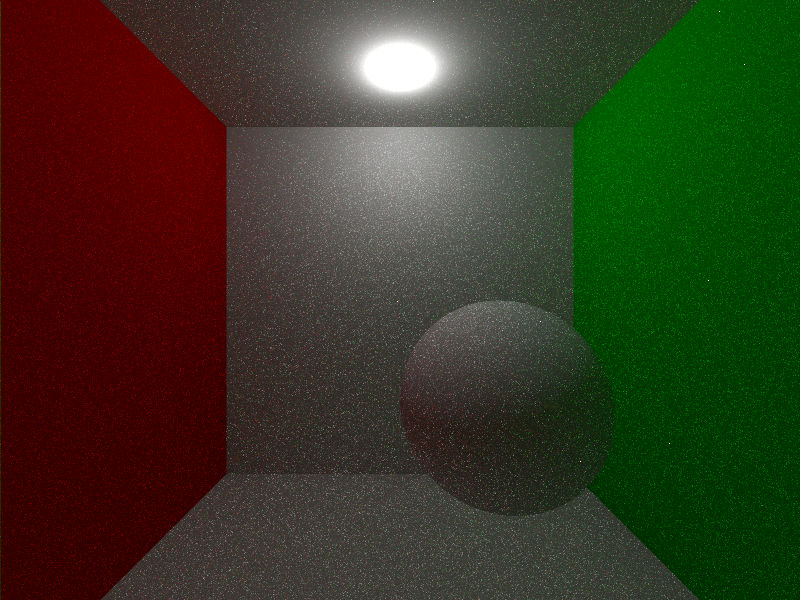
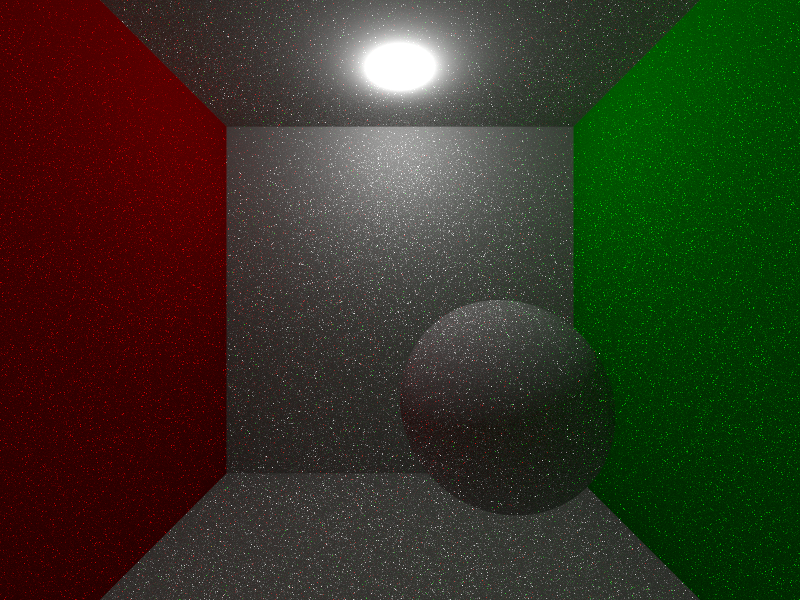
Naive threading accomplished.

Changed region(s): [[0.0, 0.0, 1.0, 1.0]]

diff --git a/src/raytracing.cpp b/src/raytracing.cpp
@@ -13,20 +13,29 @@
 #include "PerspectiveCamera.hpp"
 #include "Image.hpp"
 #include "Sample.hpp"
+#include <thread>
+#include <atomic>
 
-static const int SamplesPerPixel = 4;
+static const int NumXSamples = 8;
+static const int NumYSamples = 8;
+static const int SamplesPerPixel = NumXSamples * NumYSamples;
 static const int ImageWidth = 800;
 static const int ImageHeight = 600;
-static const int maxDepth = 5;
+static const int maxDepth = 3;
 
 static int save_png_to_file(const char *path);
 void readpng_version_info();
 void generate_samples(std::vector<Sample>& samples, const RNG& rng);
-
+std::atomic_uint counter;
 vec3 brdf(const vec3& wo, const vec3& wi, const vec3& color)
 {
 	return color * float(M_1_PI);
 }
+
+void render_func(unsigned int start, unsigned int end,
+	const std::vector<Sample>& samples,
+	const std::vector<std::shared_ptr<Renderable> > objects,
+	const std::unique_ptr<Camera>& cam, Image& render);
 
 int main(int argc, char* argv[]) 
 {
@@ -34,10 +43,10 @@ int main(int argc, char* argv[])
 	Image render(ImageWidth, ImageHeight);
 	//Samples
 	RNG rng;
-	std::vector<Sample> image_samples;
-	image_samples.reserve((ImageWidth) * (ImageHeight) * SamplesPerPixel);
+	std::vector<Sample> image_samples((ImageWidth + 1) * (ImageHeight + 1) * SamplesPerPixel);
 	//Generate image samples
 	generate_samples(image_samples, rng);
+#pragma region WorldSetup 
 	// Setup  camera
 	Transform worldToCamera = Transform::lookat(vec3(0.0f, 0.0f, -200.0f), vec3(), vec3(0.0f, 1.0f, 0.0f));
 	float aspectRatio = render.getAspectRatio();
@@ -52,7 +61,6 @@ int main(int argc, char* argv[])
 	float bottom = -top;
 	std::unique_ptr<Camera> cam( new PerspectiveCamera(inv(worldToCamera),worldToCamera, left, right, top, bottom,
 		near, far, float(ImageWidth), float(ImageHeight)));
-	//readpng_version_info();
 	// Setup scene
 	std::vector<std::shared_ptr<Renderable> > objects;
 	objects.reserve(10);
@@ -74,15 +82,85 @@ int main(int argc, char* argv[])
 	objects.push_back(std::shared_ptr<Renderable>(new Renderable(plane2, whiteMat)));
 	objects.push_back(std::shared_ptr<Renderable>(new Renderable(plane3, redMat)));
 	objects.push_back(std::shared_ptr<Renderable>(new Renderable(plane4, greenMat)));
+#pragma endregion
+	static const int numThreads = 8;
+	std::vector<std::thread> threads(numThreads);
+	unsigned int numSamples = image_samples.size();
+	unsigned int step = std::floor(float(numSamples) / float(numThreads));
+	for (int i = 0; i < numThreads; ++i)
+	{
+		threads[i] = std::thread(render_func, step * i, ((step * (i + 1))),
+			std::ref(image_samples), std::ref(objects), std::ref(cam), std::ref(render));
+	}
+	for (int i = 0; i < numThreads; ++i)
+	{
+		threads[i].join();
+	}
+
+	render.saveImage("render.png");
+}
+
+void readpng_version_info()
+{
+	fprintf(stderr, "   Compiled with libpng %s; using libpng %s.\n",
+		PNG_LIBPNG_VER_STRING, png_libpng_ver);
+	fprintf(stderr, "   Compiled with zlib %s; using zlib %s.\n",
+		ZLIB_VERSION, zlib_version);
+}
+
+void gen_samples_thread(unsigned int start, unsigned int stop,
+	std::vector<Sample>& samples, const RNG& rng)
+{
+	std::vector<float> rawSamples;
+	rawSamples.reserve(SamplesPerPixel * 2);
+	for (unsigned int i = start; i < stop;  i += SamplesPerPixel)
+	{
+		int y = std::floor( (double(i)/double(SamplesPerPixel)) / double(ImageWidth));
+		int x = i/SamplesPerPixel - (y * ImageWidth);
+		stratified2D(NumXSamples, NumYSamples, false, rawSamples, rng);
+		for (int k = 0; k < SamplesPerPixel; ++k)
+		{
+			float tmpx = rawSamples[k * 2];
+			float tmpy = rawSamples[k * 2 + 1];
+			tmpx += x;
+			tmpy += y;
+			samples[i + k] = Sample(tmpx, tmpy);
+		}
+		rawSamples.clear();
+	}
+}
+void generate_samples(std::vector<Sample>& samples, const RNG& rng)
+{
+	const int numThreads = 4;
+	std::vector<std::thread> threads(numThreads);
+	unsigned int numSamples = samples.size();
+	unsigned int step = std::floor(float(numSamples) / float(numThreads));
+	for (int i = 0; i < numThreads; ++i)
+	{
+		threads[i] = std::thread(gen_samples_thread, step * i, ((step * (i + 1))),
+			std::ref(samples), std::ref(rng));
+	}
+	for (int i = 0; i < numThreads; ++i)
+	{
+		threads[i].join();
+	}
+}
+
+void render_func(unsigned int start, unsigned int end,
+	const std::vector<Sample>& samples, 
+	 const std::vector<std::shared_ptr<Renderable> > objects,
+	const std::unique_ptr<Camera>& cam, Image& render)
+{
+	RNG rng;
 	std::shared_ptr<Intersection> intersection(new Intersection());
 	Intersection trueIntersection;
 	vec3 light(0.0, 190.0f, 100.0f);
 	bool hit;
-	unsigned int counter = 0;
 	float lightIntensity = 10000.0f;
-	unsigned int tnSamples = ImageWidth * ImageHeight * SamplesPerPixel;
-	for each(auto& sample in image_samples)
+	unsigned int tnSamples = samples.size();
+	for (unsigned int i = start; i < end; ++i)
 	{
+		const Sample& sample = samples[i];
 		int numHit = 0;
 		Ray ray = cam->generateRay(sample.imageX, sample.imageY);
 		//fprintf(stderr, "Casting ray in dir: %f,%f,%f \n", ray.dir.x, ray.dir.y, ray.dir.z);
@@ -170,128 +248,7 @@ int main(int argc, char* argv[])
 		{
 			float progress = float(counter) / float(tnSamples);
 			progress *= 100.0f;
-			printf("We are  on ray number %u counter and %f percent done\n", counter, progress);
-		}
-	}
-
-	render.saveImage("render.png");
-}
-//
-//int save_png_to_file(const char *path)
-//{
-//	FILE * fp;
-//	png_structp png_ptr = NULL;
-//	png_infop info_ptr = NULL;
-//	size_t x, y;
-//	png_byte ** row_pointers = NULL;
-//	/* "status" contains the return value of this function. At first
-//	it is set to a value which means 'failure'. When the routine
-//	has finished its work, it is set to a value which means
-//	'success'. */
-//	int status = -1;
-//	/* The following number is set by trial and error only. I cannot
-//	see where it it is documented in the libpng manual.
-//	*/
-//	int pixel_size = 3;
-//	int depth = 8;
-//
-//	fp = fopen(path, "wb");
-//	if (!fp) {
-//		goto fopen_failed;
-//	}
-//
-//	png_ptr = png_create_write_struct(PNG_LIBPNG_VER_STRING, NULL, NULL, NULL);
-//	if (png_ptr == NULL) {
-//		goto png_create_write_struct_failed;
-//	}
-//
-//	info_ptr = png_create_info_struct(png_ptr);
-//	if (info_ptr == NULL) {
-//		goto png_create_info_struct_failed;
-//	}
-//
-//	/* Set up error handling. */
-//
-//	if (setjmp(png_jmpbuf(png_ptr))) {
-//		goto png_failure;
-//	}
-//
-//	/* Set image attributes. */
-//
-//	png_set_IHDR(png_ptr,
-//		info_ptr,
-//		IMWIDTH,
-//		IMHEIGHT,
-//		depth,
-//		PNG_COLOR_TYPE_RGB,
-//		PNG_INTERLACE_NONE,
-//		PNG_COMPRESSION_TYPE_DEFAULT,
-//		PNG_FILTER_TYPE_DEFAULT);
-//
-//	/* Initialize rows of PNG. */
-//
-//	row_pointers = (png_bytepp)png_malloc(png_ptr, IMHEIGHT * sizeof(png_byte *));
-//	for (y = 0; y < IMHEIGHT; ++y) {
-//		png_byte *row =
-//			(png_bytep)png_malloc(png_ptr, sizeof(uint8_t) * IMWIDTH * pixel_size);
-//		row_pointers[y] = row;
-//		for (x = 0; x < IMWIDTH; ++x) {
-//			*row++ = g_red[y * IMWIDTH + x];
-//			*row++ = g_green[y * IMWIDTH + x];
-//			*row++ = g_blue[y * IMWIDTH + x];
-//		}
-//	}
-//
-//	/* Write the image data to "fp". */
-//
-//	png_init_io(png_ptr, fp);
-//	png_set_rows(png_ptr, info_ptr, row_pointers);
-//	png_write_png(png_ptr, info_ptr, PNG_TRANSFORM_IDENTITY, NULL);
-//
-//	/* The routine has successfully written the file, so we set
-//	"status" to a value which indicates success. */
-//
-//	status = 0;
-//
-//	for (y = 0; y < IMHEIGHT; y++) {
-//		png_free(png_ptr, row_pointers[y]);
-//	}
-//	png_free(png_ptr, row_pointers);
-//
-//png_failure:
-//png_create_info_struct_failed:
-//	png_destroy_write_struct(&png_ptr, &info_ptr);
-//png_create_write_struct_failed:
-//	fclose(fp);
-//fopen_failed:
-//	return status;
-//}
-
-void readpng_version_info()
-{
-	fprintf(stderr, "   Compiled with libpng %s; using libpng %s.\n",
-		PNG_LIBPNG_VER_STRING, png_libpng_ver);
-	fprintf(stderr, "   Compiled with zlib %s; using zlib %s.\n",
-		ZLIB_VERSION, zlib_version);
-}
-
-void generate_samples(std::vector<Sample>& samples, const RNG& rng)
-{
-	std::vector<float> rawSamples;
-	rawSamples.reserve(SamplesPerPixel * 2);
-	int spp2 = SamplesPerPixel / 2;
-	for (int y = 0; y < ImageHeight + 1; ++y)
-	{
-		for (int x = 0; x < ImageWidth + 1; ++x)
-		{
-			stratified2D(spp2, spp2, true, rawSamples, rng);
-			for (int i = 0; i < SamplesPerPixel; ++i)
-			{
-				float tmpx = rawSamples[i * 2];
-				float tmpy = rawSamples[i * 2 + 1];
-				samples.push_back(Sample(tmpx + x, tmpy + y));
-			}
-			rawSamples.clear();
+			printf("We are  on ray number %u counter and %f percent done\n", counter.load(), progress);
 		}
 	}
 }

diff --git a/src/Image.cpp b/src/Image.cpp
@@ -9,6 +9,7 @@ Image::Image(int _width, int _height)
 
 void Image::addSample(const Sample & sample, const vec3 & color)
 {
+	std::lock_guard<std::mutex> guard(mutex);
 	float imX = std::floor(sample.imageX); //Samples are continuous
 	float imY = std::floor(sample.imageY);
 	Pixel& p = pixels[int(imY) * width + int(imX)];

diff --git a/src/Image.hpp b/src/Image.hpp
@@ -8,6 +8,7 @@
 #include <cstdint>
 #include <algorithm>
 #include <vector>
+#include <mutex>
 #include "zlib.h"
 #include "png.h"
 #include "vec3.hpp"
@@ -35,6 +36,8 @@ protected:
 	int width;
 	int height;
 	std::vector<Pixel> pixels;
+private:
+	std::mutex mutex;
 
 };
 #endif // !IMAGE_HPP
